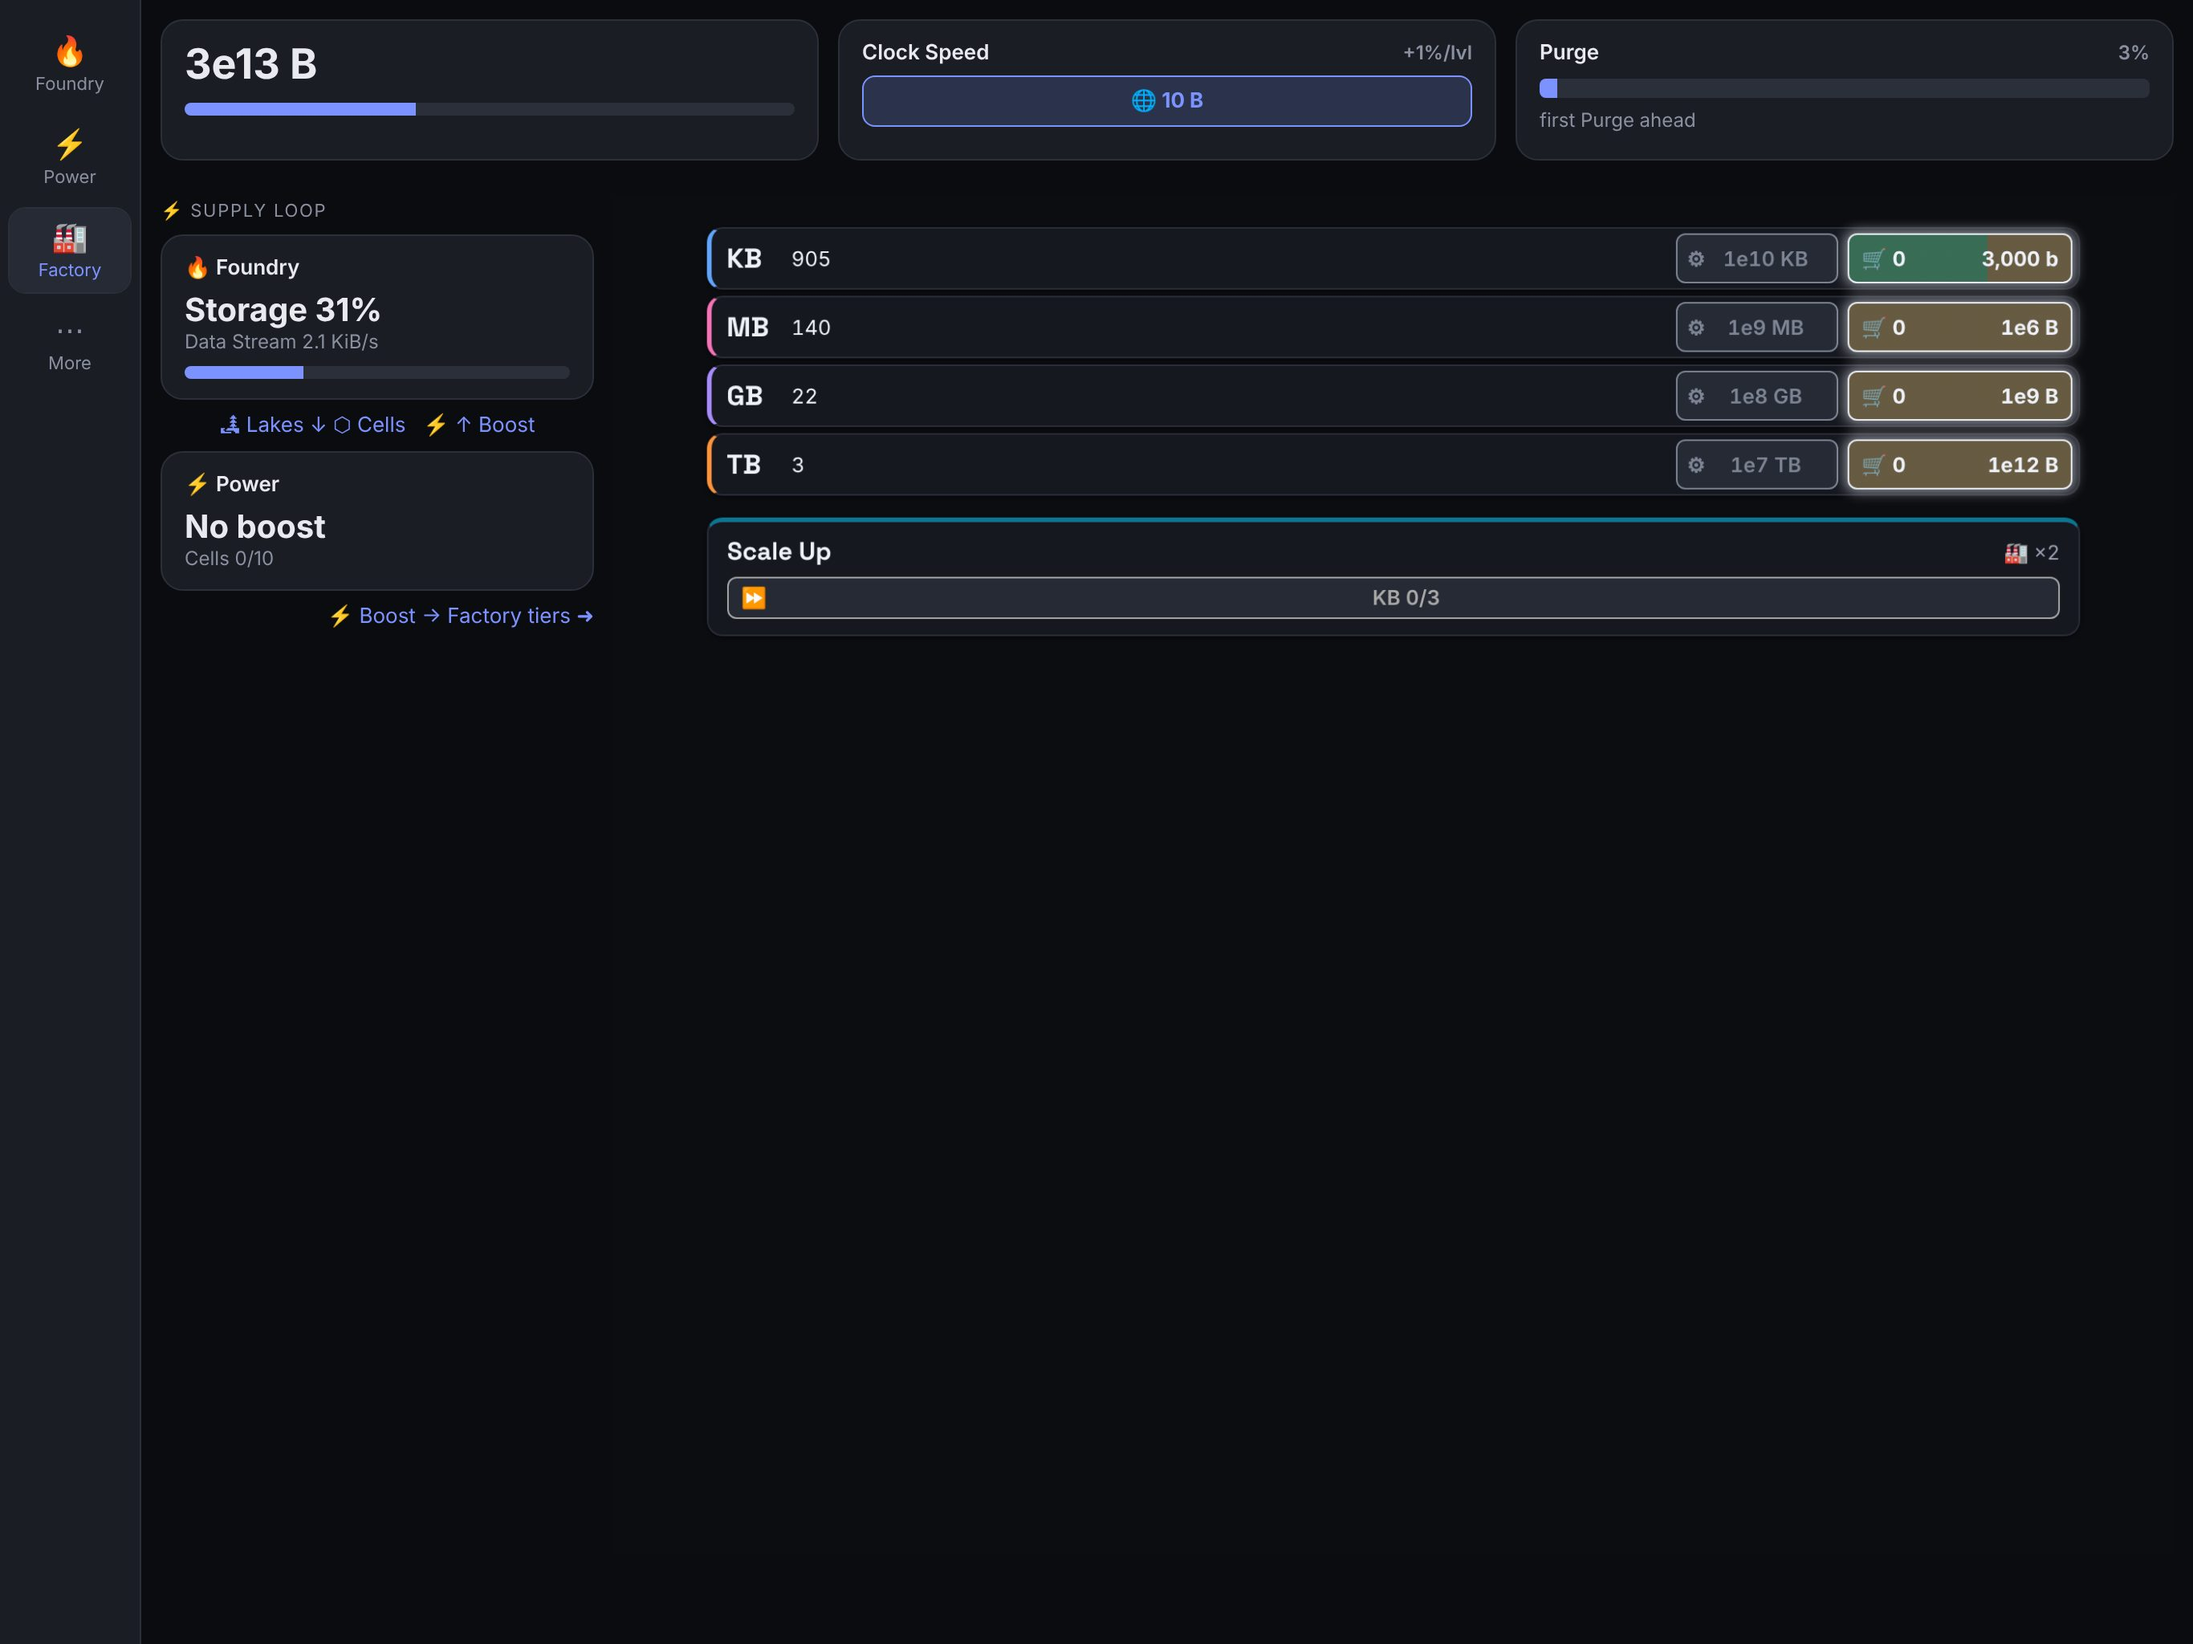
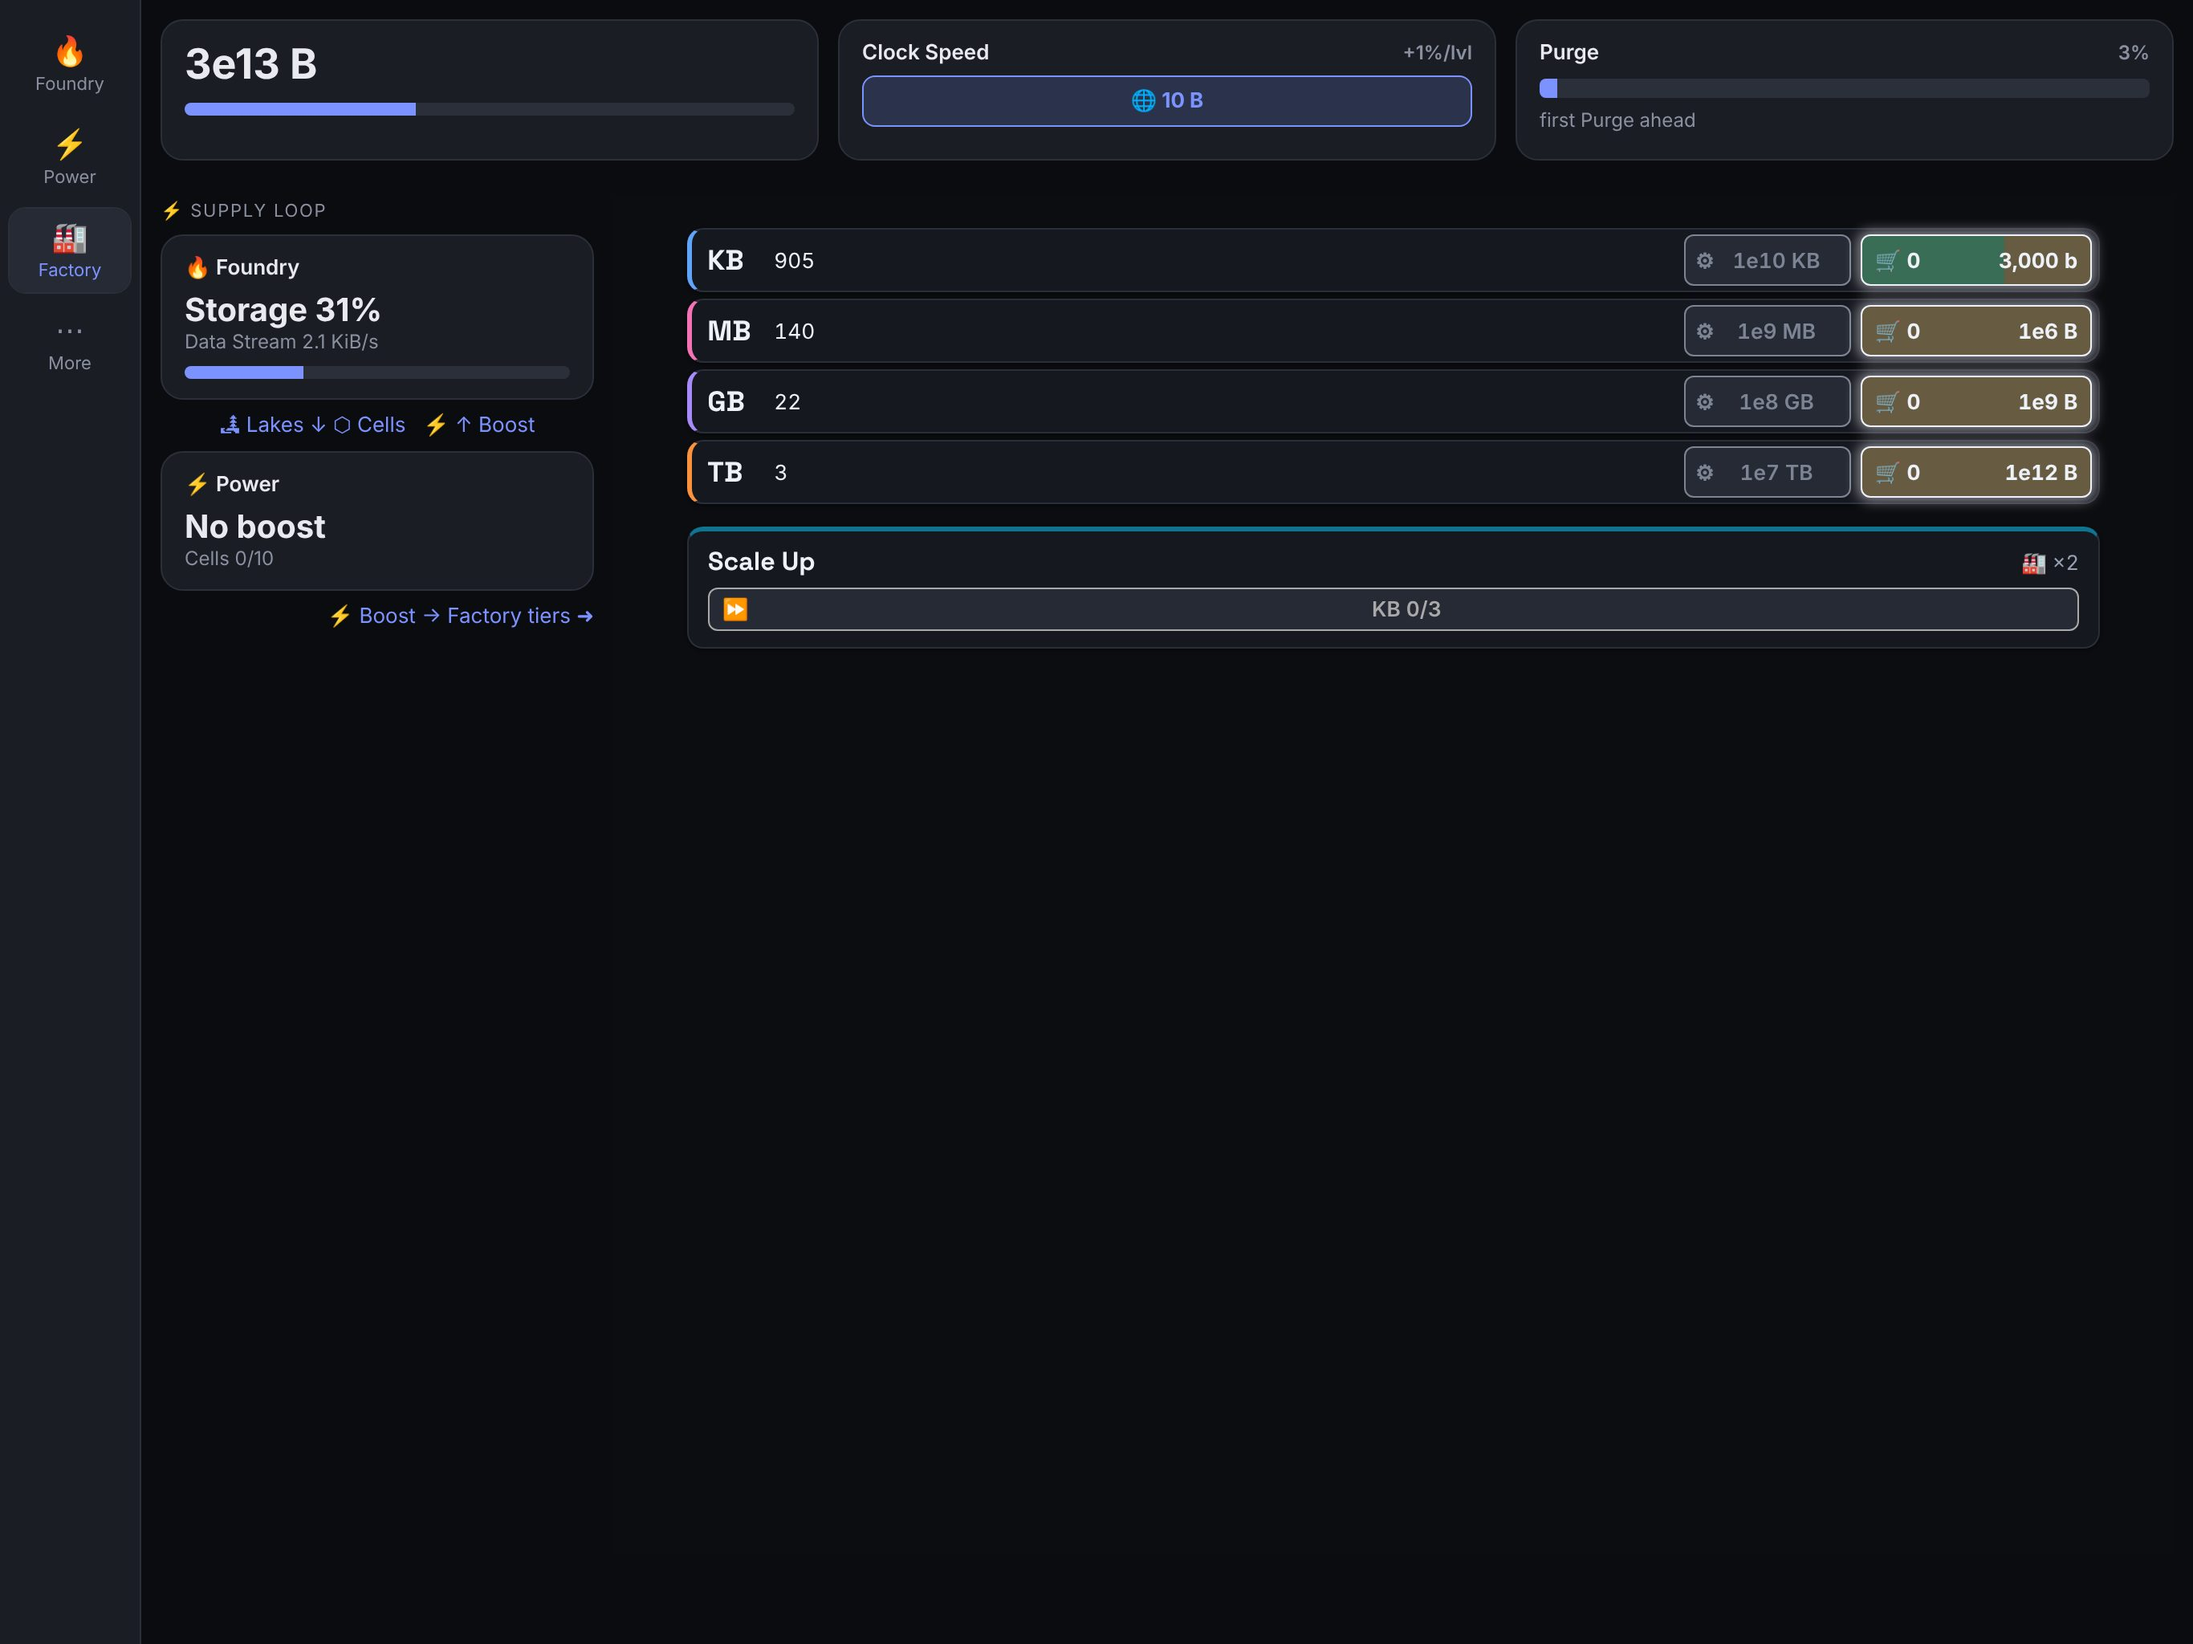
Capture early Control Room pane at its drawn size
control-room-early captured Factory at 1000x870 but drew it at 972x846,
so the real-app pane was rescaled. Capture at 972x846 and extend the
drawn-size test to Control Room layouts (Devin review on #1165).

Claude-Session: https://claude.ai/code/session_01WvzZBAhYmQRr2pkT9bamvG

Changed region(s): [[0.3111, 0.125, 0.9645, 0.4062]]

diff --git a/scripts/large-screen-mockups/manifest.test.js b/scripts/large-screen-mockups/manifest.test.js
@@ -34,6 +34,11 @@ describe('large-screen mockup manifest', () => {
     paneRects(mockup).forEach(({ width }, index) => expect(mockup.panes[index].width).toBe(width))
   })
 
+  test.each(MOCKUPS.filter(m => m.layout.kind === 'controlRoom').map(m => [m.id, m]))('%s captures its centre pane at its drawn size', (_, mockup) => {
+    expect(mockup.panes[0].width).toBe(mockup.layout.centre.width)
+    expect(mockup.panes[0].height).toBe(mockup.layout.centre.height)
+  })
+
   test('hinge mockups put the divider at the window centre', () => {
     for (const mockup of MOCKUPS.filter(m => m.layout.fold)) {
       expect(mockup.layout.dividers[0]).toBe(Math.floor(mockup.width / 2))
